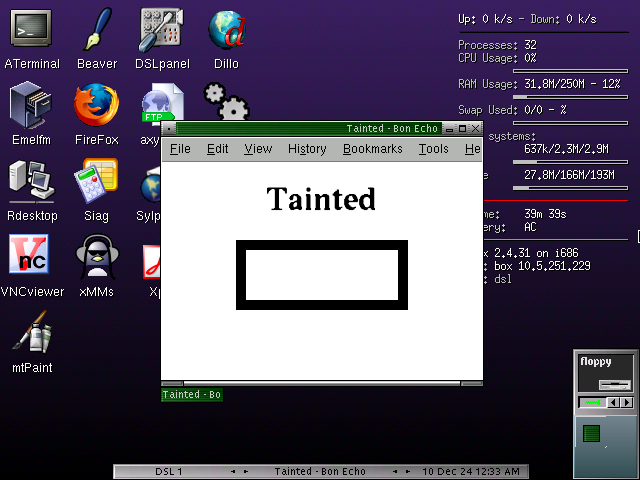
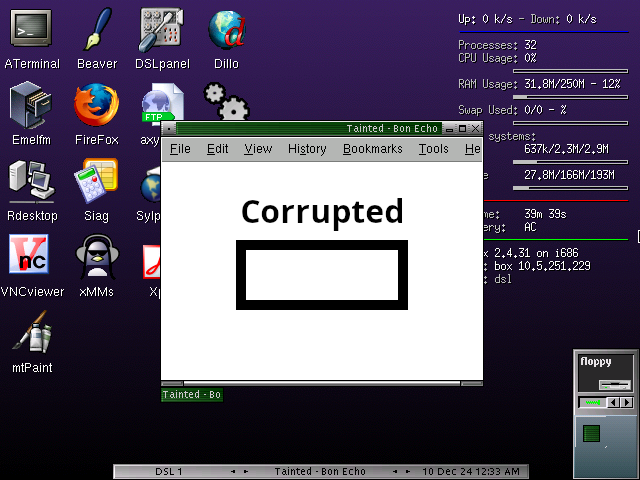
[office] adjusted bonzi. changed tainted to corrupted

Changed region(s): [[0.375, 0.375, 0.625, 0.5]]

diff --git a/src/state/office.rs b/src/state/office.rs
@@ -628,7 +628,7 @@ impl<'a> State<'a> {
         if config().on_tutorial() {
             let bonzi_secs = self.bonzi_timer.elapsed().unwrap().as_secs_f32() - 5.0;
             if bonzi_secs >= 3.0 {
-                let bonzi_frame = ((bonzi_secs - 3.0) * 12.5) as i32;
+                let bonzi_frame = (((bonzi_secs - 3.0) * 12.5) as i32).clamp(0, 25);
                 let bonzi = match bonzi_frame {
                     0 => &*self.textures.bonzi.enter1(),
                     1 => &*self.textures.bonzi.enter2(),
@@ -663,8 +663,8 @@ impl<'a> State<'a> {
                     bonzi,
                     texture_rect!(bonzi),
                     Rectangle::new(
-                        0.0,
-                        0.0,
+                        120.0,
+                        (bonzi_frame * 8) as f32,
                         bonzi.width as f32 * 2.0,
                         bonzi.height as f32 * 2.0,
                     ),

diff --git a/src/state/general_ui.rs b/src/state/general_ui.rs
@@ -119,16 +119,17 @@ impl<'a> State<'a> {
             .bonzi_line
             .split(" ")
             .map(|f| {
-                i += 1;
-
-                if i % space_every == 0 {
-                    f.to_string().replace(" ", "") + "\n"
+                let ret = if i % space_every == 0 {
+                    f.to_string() + "\n"
                 } else {
-                    f.to_string().replace(" ", "") + "\n"
-                }
+                    f.to_string() + " "
+                };
+
+                i += 1;
+                ret
             })
             .collect::<Vec<_>>()
-            .join(" ");
+            .join("");
         draw_list.add_text(
             [config().real_margin() + 50.0, 50.0],
             ImColor32::WHITE,
